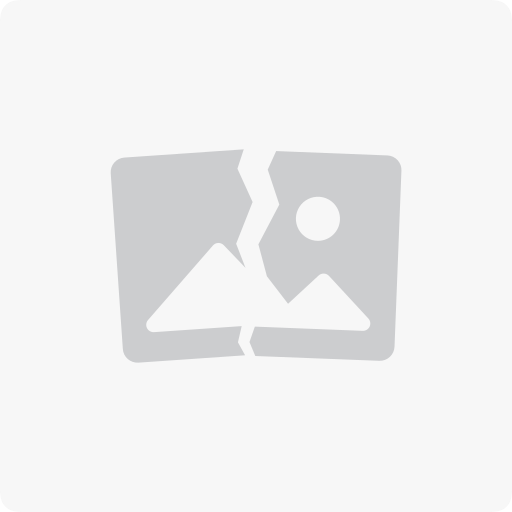
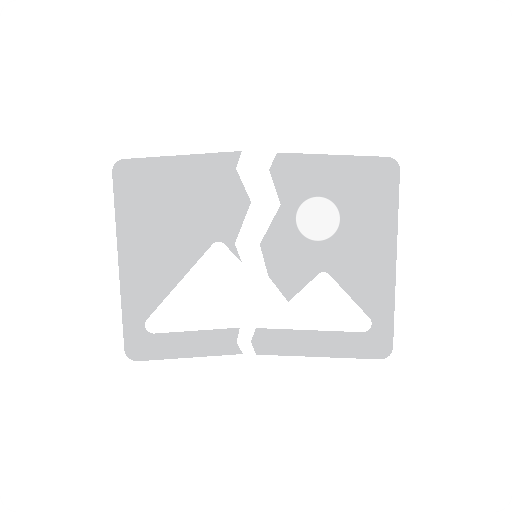
add more back images for laoding

diff --git a/styles/homeStyle.css b/styles/homeStyle.css
@@ -1169,6 +1169,11 @@ main>.content>.first {
     background-color: var(--aot-light-color--);
 }
 
+.gallary .swiper-slide {
+    background: white url('../assets/images/picture-loading-failed-1.png') no-repeat center;
+    background-size: contain;
+}
+
 .gallary h2,
 .community h2 {
     color: var(--aot-color--);
@@ -1201,7 +1206,7 @@ main>.content>.first {
 
 .mySwiper3 {
     width: 100%;
-    height: 100%;
+    height: 27em;
     object-fit: cover;
     display: flex;
     justify-content: center;
@@ -1252,7 +1257,7 @@ main>.content>.first {
 .mySwiper3 .swiper-wrapper img {
     width: 100%;
     aspect-ratio: 3/2;
-    object-fit: contain;
+    object-fit: cover;
 }
 
 .exp {
@@ -1471,8 +1476,8 @@ main>.content>.first {
 
 
 .fifth ul li:hover {
-    transition: all 0.3s ease;
-    background-color: rgba(128, 128, 128, 0.498);
+    transition: all 0.1s ease;
+    background-color: rgba(128, 128, 128, 0.193);
 }
 
 /* .sixth, */
@@ -1512,9 +1517,12 @@ main>.content>.first {
     margin-left: 0.3rem;
 }
 
-.seventh>.content>.left {
+.seventh>.content {
     background-color: white;
     padding: 1rem;
+}
+
+.seventh>.content>.left {
     display: flex;
     flex-direction: column;
     align-items: center;
@@ -1524,10 +1532,15 @@ main>.content>.first {
     display: flex;
     justify-content: center;
     align-items: center;
+    background: url('../assets/images/picture-loading-failed-1.png') no-repeat center;
+    background-size: contain;
+    min-height: 32em;
 }
 
 .seventh>.content .right img {
     width: 100%;
+    height: 100%;
+    object-fit: contain;
 }
 
 .placementBook {

diff --git a/index.html b/index.html
@@ -696,7 +696,7 @@
                     </div>
                     <div class="child">
                         <a href="#" target="_blank">
-                            <img src="./assets/communityImage/resourcio_logo.svg" alt="resourcio_logo loading=" lazy"
+                            <img src="./assets/communityImage/resourcio_logo.svg" alt="resourcio_logo" loading="lazy"
                                 decoding="async" title="Resourcio Community">
                         </a>
                     </div>
